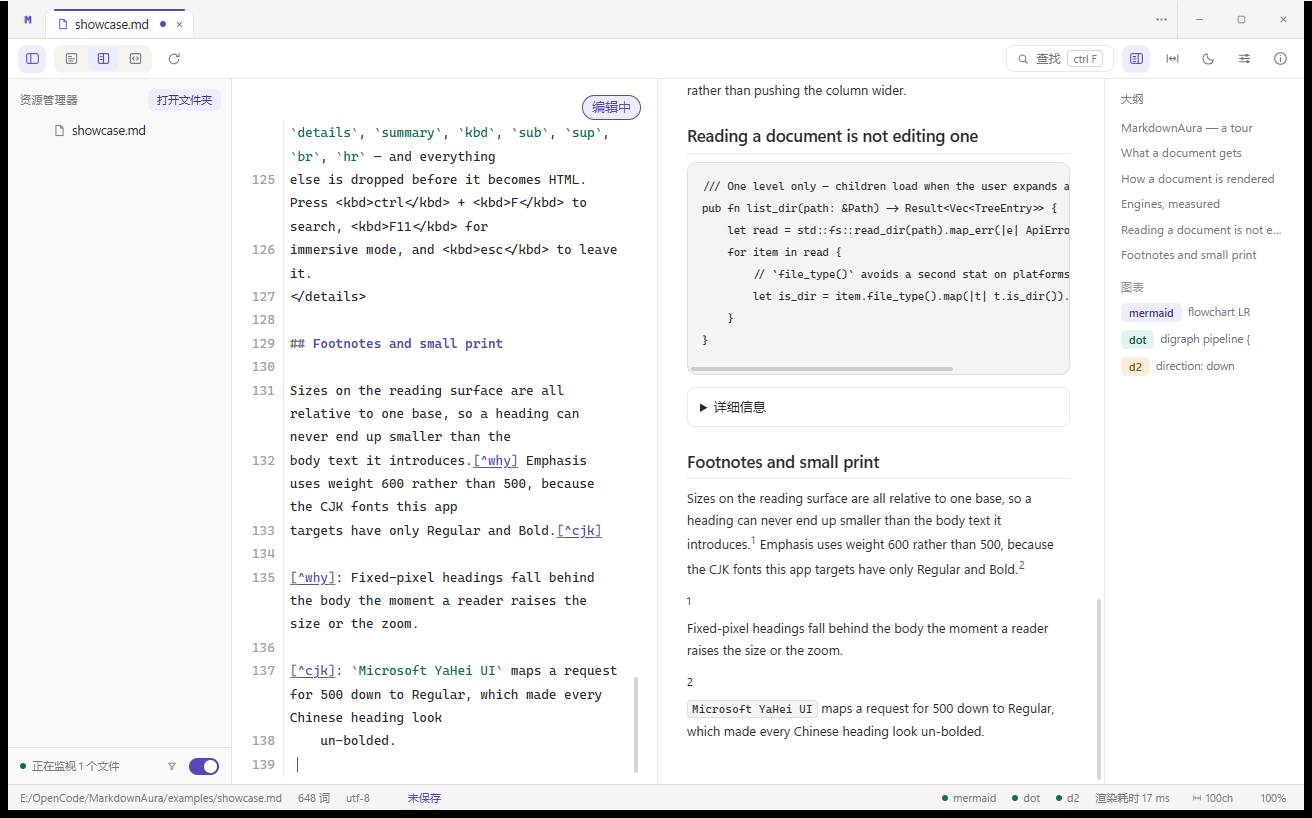
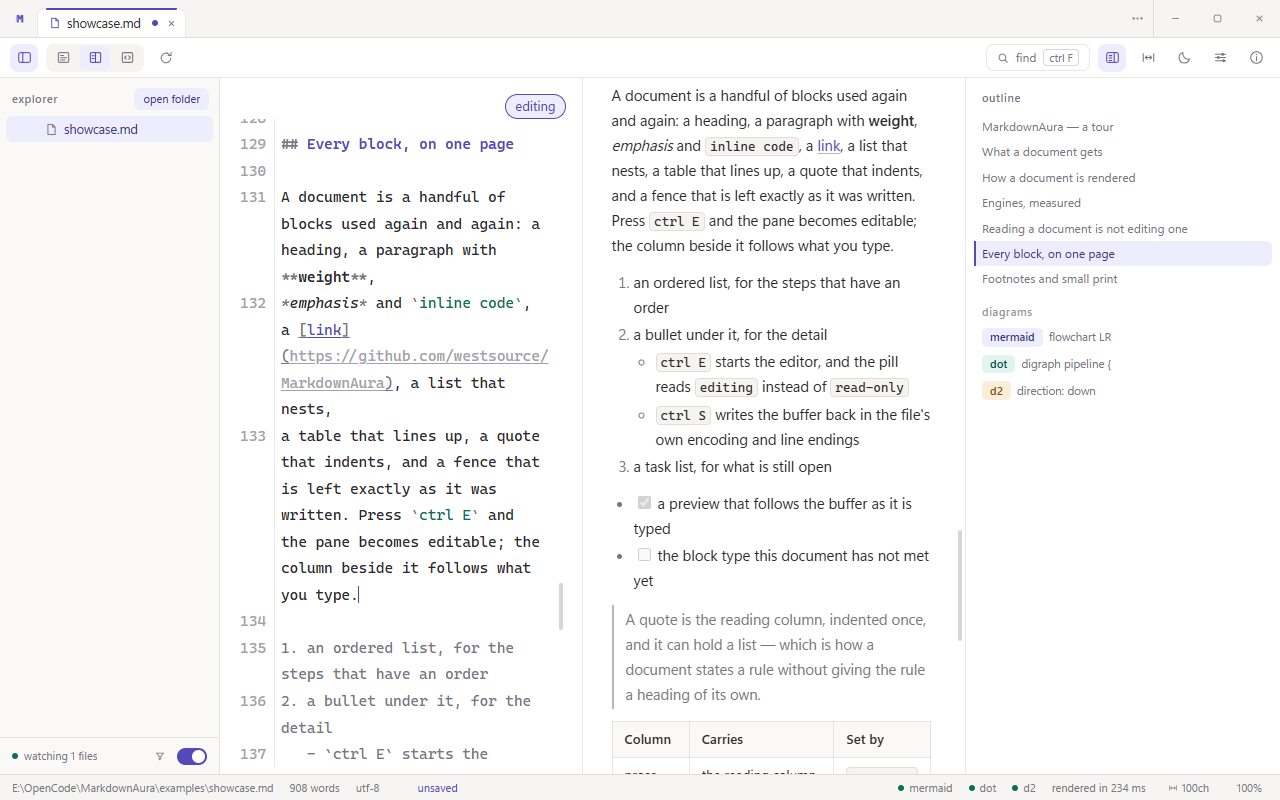
Re-shoot the split-editing README frame without the window frame
The old `readme-editing.png` came out of a Win32 window grab, and `GetWindowRect` is
the window plus its invisible frame ring: the image was 1312x818 with a black border
around a 1280x800 document, and it was the one frame in the gallery that did not match
the rest. It is now a CDP viewport capture (`Page.captureScreenshot`) — 1280x800, no
frame, no border — taken with the editor open, the pill reading `editing`, the caret at
the end of a freshly typed sentence and the tab carrying the unsaved mark.

The frame that shows a document being edited should show a document worth editing, so
`examples/showcase.md` gained a "Every block, on one page" section: an ordered list, a
nested list, a task list, a quote, a table, a link, a footnote and a fence, one screen
apart. The other five screenshots still show the same file, unchanged above it.

design/IMPL.md §10 now records the rule, because the failure mode is a script choice and
not a bug anybody would see in a test: any `GetWindowRect`-based grab carries the ring.

Changed region(s): [[0.0, 0.0, 1.0, 1.0], [0.125, 0.0938, 0.1562, 0.1562]]

diff --git a/examples/showcase.md b/examples/showcase.md
@@ -126,6 +126,37 @@ else is dropped before it becomes HTML. Press <kbd>ctrl</kbd> + <kbd>F</kbd> to 
 immersive mode, and <kbd>esc</kbd> to leave it.
 </details>
 
+## Every block, on one page
+
+A document is a handful of blocks used again and again: a heading, a paragraph with **weight**,
+*emphasis* and `inline code`, a [link](https://github.com/westsource/MarkdownAura), a list that nests,
+a table that lines up, a quote that indents, and a fence that is left exactly as it was written.
+
+1. an ordered list, for the steps that have an order
+2. a bullet under it, for the detail
+   - `ctrl E` starts the editor, and the pill reads `editing` instead of `read-only`
+   - `ctrl S` writes the buffer back in the file's own encoding and line endings
+3. a task list, for what is still open
+
+- [x] a preview that follows the buffer as it is typed
+- [ ] the block type this document has not met yet
+
+> A quote is the reading column, indented once, and it can hold a list — which is how a document
+> states a rule without giving the rule a heading of its own.
+
+| Column | Carries | Set by |
+|---|---|---|
+| prose | the reading column | `--measure` |
+| code | weight 600, on one size base | `prose.css` |
+| a diagram | an engine badge and the first source line | `render/` |
+
+```rust
+/// A fence keeps its own line endings and is never reflowed or re-wrapped.
+pub fn save_doc(path: &Path, text: &str, eol: Eol) -> Result<()> {
+    write_atomic(path, text, eol)
+}
+```
+
 ## Footnotes and small print
 
 Sizes on the reading surface are all relative to one base, so a heading can never end up smaller than the

diff --git a/design/IMPL.md b/design/IMPL.md
@@ -888,8 +888,11 @@ status bar's `rendered in N ms` is where a reader sees it.
 - **How the app itself gets verified** (kept in `var/`, gitignored): a fixture folder
   (`var/demo-docs/`), a CDP probe (`var/cdp-run.mjs`) against
   `--remote-debugging-port=9222`, and Win32 screen capture (`var/capture-screen.ps1`;
-  `PrintWindow` returns black for WebView2, so it must use `CopyFromScreen`). Tauri's
-  `listen` is an internal IPC channel, not a DOM event, so `emit()` from the page can
+  `PrintWindow` returns black for WebView2, so it must use `CopyFromScreen`). **The README frames
+  are a viewport capture, never a window grab** (`var/shot-readme-editing.mjs`): `GetWindowRect` is
+  the window *plus* its invisible frame ring, so a `PrintWindow` frame comes back 1312×818 with a
+  black border around a 1280×800 document, while `Page.captureScreenshot` is the document alone.
+  Tauri's `listen` is an internal IPC channel, not a DOM event, so `emit()` from the page can
   synthesise `tauri://drag-*` for a drop-zone test. Two environment facts that cost time:
   a dev instance holds the build-script output file so `cargo test` fails with
   `os error 32` until the app is killed, and background jobs die with the turn, so the whole

diff --git a/README.md b/README.md
@@ -126,7 +126,7 @@ npm run notices        # regenerates THIRD-PARTY.md from the real dependency tre
 
 Captured from the real app at 1280 × 800, with the document in [`examples/showcase.md`](examples/showcase.md) open — one file that uses every block type the renderer handles, and all three diagram engines.
 
-![The editor open in split view: line numbers and syntax colours on the left, the rendered document following on the right, the tab carrying the unsaved mark](assets/readme-editing.png)
+![Split view with the editor open: line numbers and syntax colours on the left, the caret at the end of the paragraph just typed, the rendered document following on the right, the tab carrying the unsaved mark](assets/readme-editing.png)
 
 |  |  |
 |---|---|

diff --git a/README.zh-CN.md b/README.zh-CN.md
@@ -126,7 +126,7 @@ npm run notices        # 依据真实依赖树重新生成 THIRD-PARTY.md
 
 均为真机截图，分辨率 1280 × 800，打开的是 [`examples/showcase.md`](examples/showcase.md)——一份用上渲染器所有块类型、并同时含三个图表引擎的文档。
 
-![分屏下打开编辑器：左侧有行号与语法着色，右侧渲染结果随输入更新，标签页带着未保存标记](assets/readme-editing.png)
+![分屏下打开编辑器：左侧有行号与语法着色、光标停在刚敲进去的那句话末尾，右侧渲染结果随输入更新，标签页带着未保存标记](assets/readme-editing.png)
 
 |  |  |
 |---|---|
